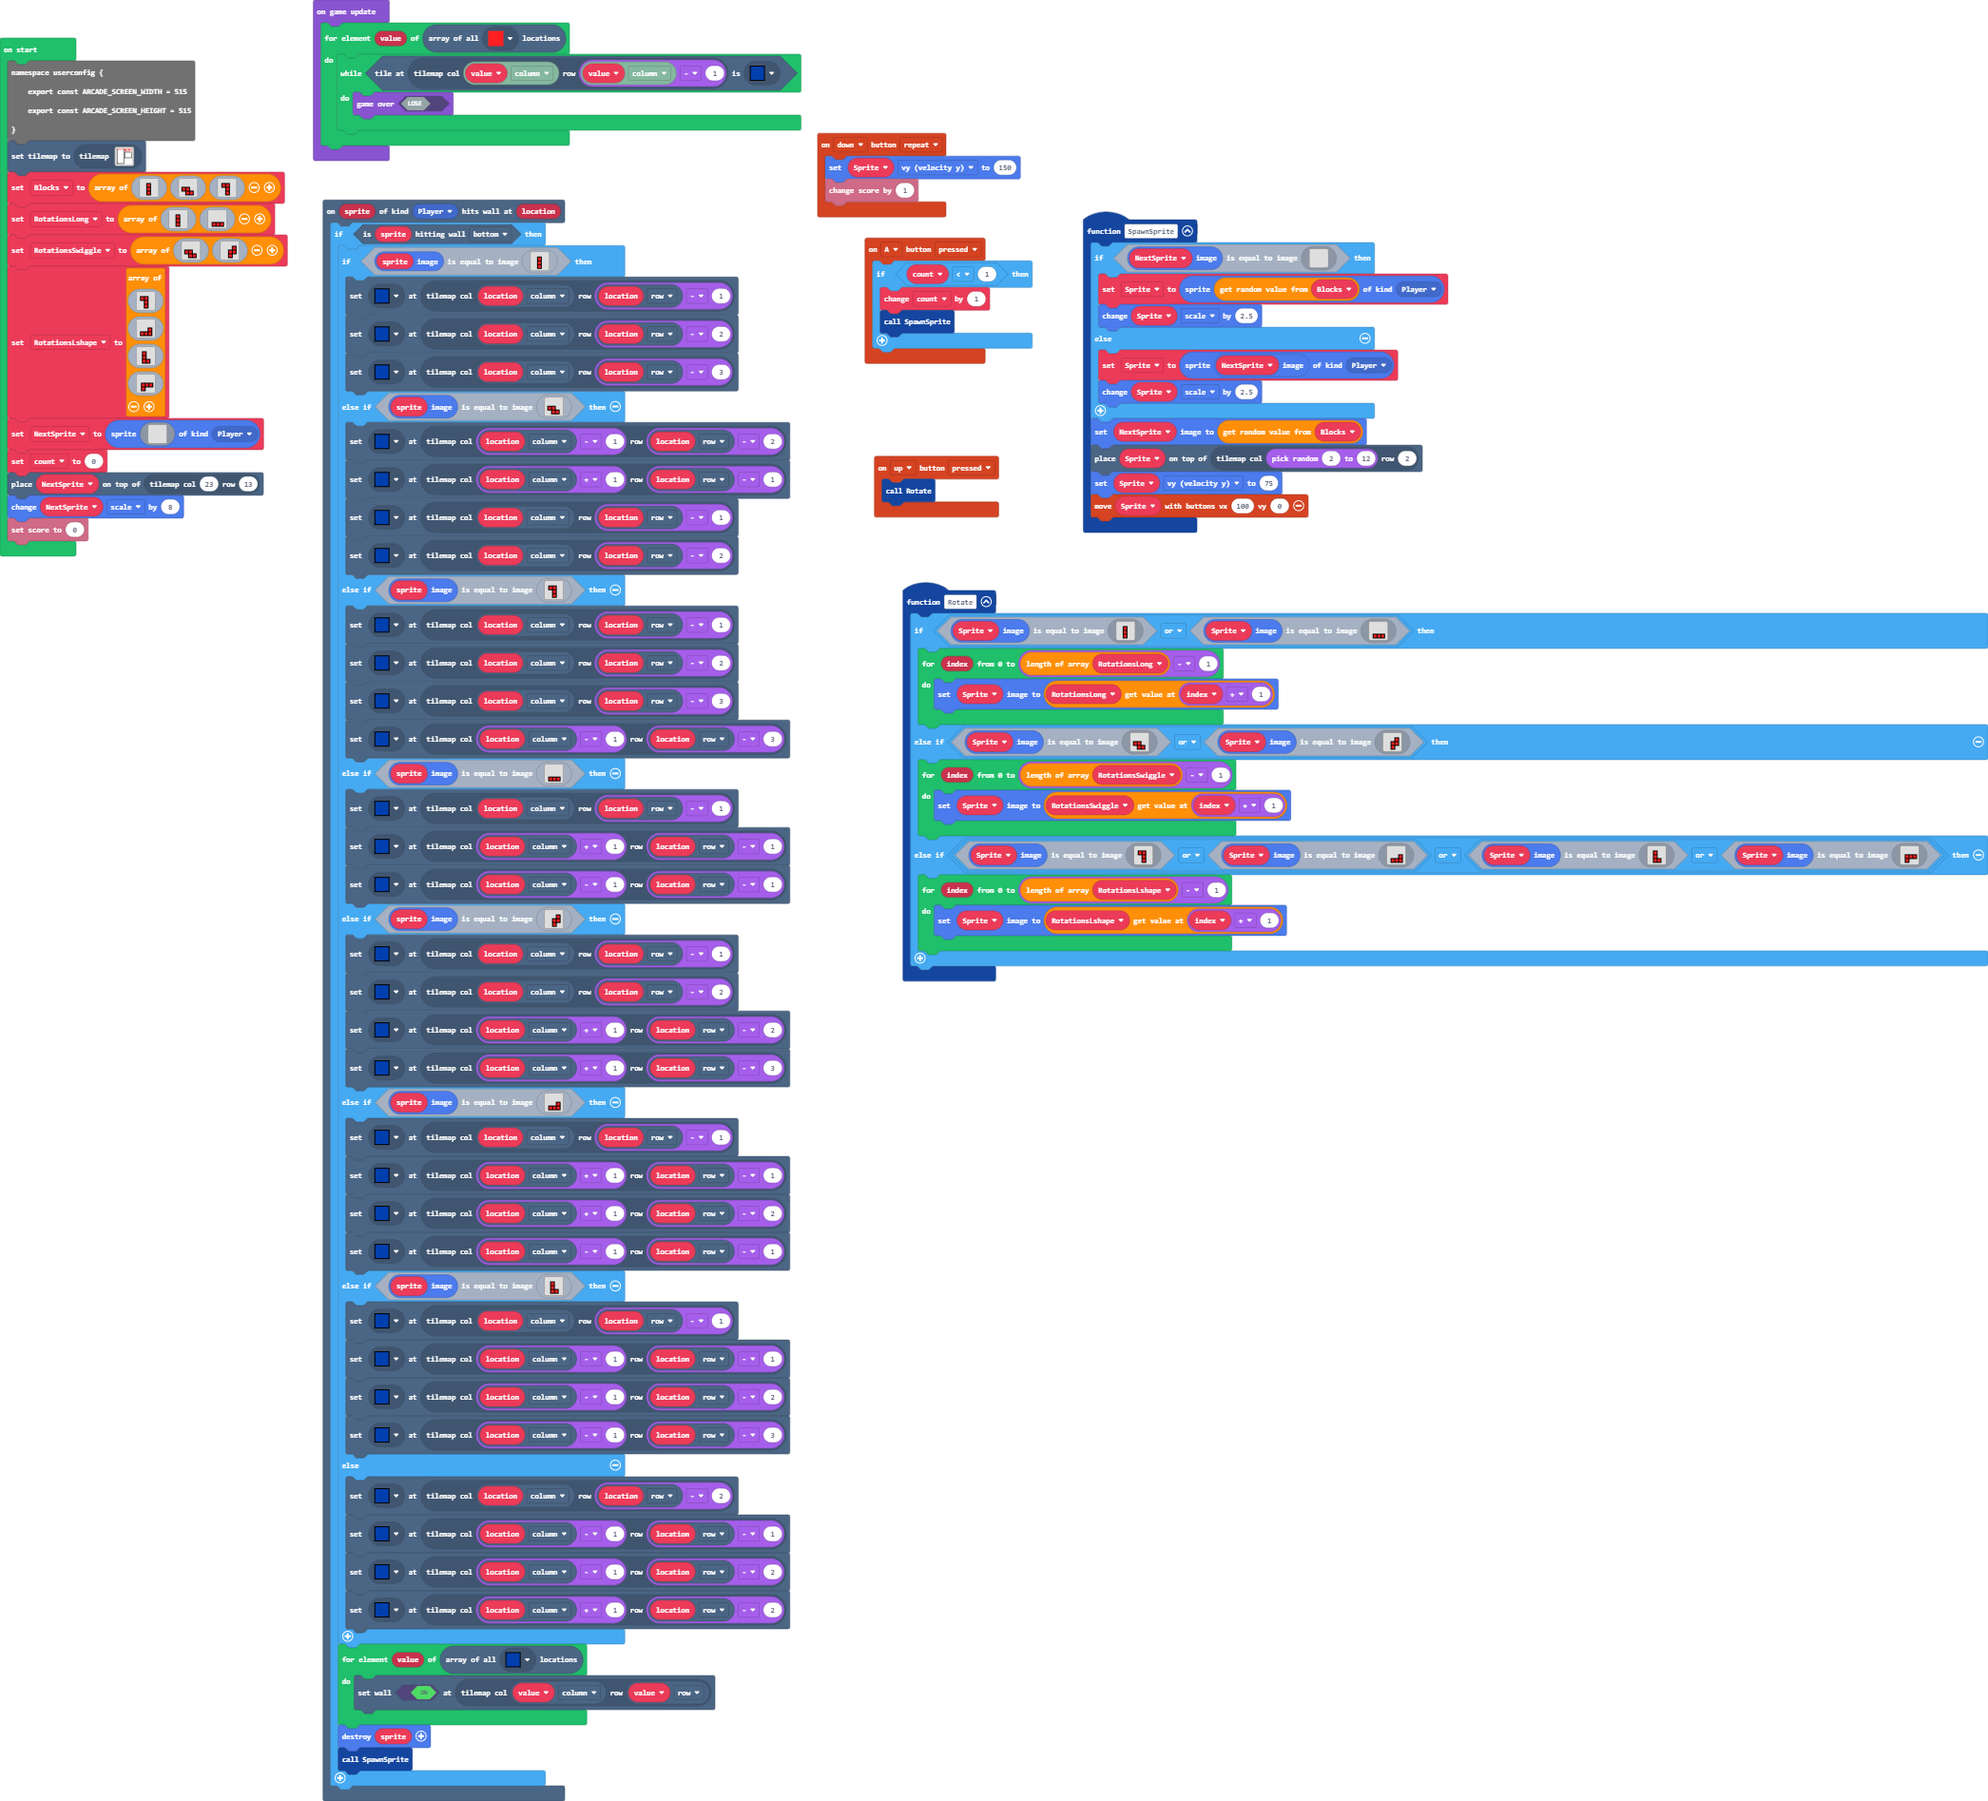
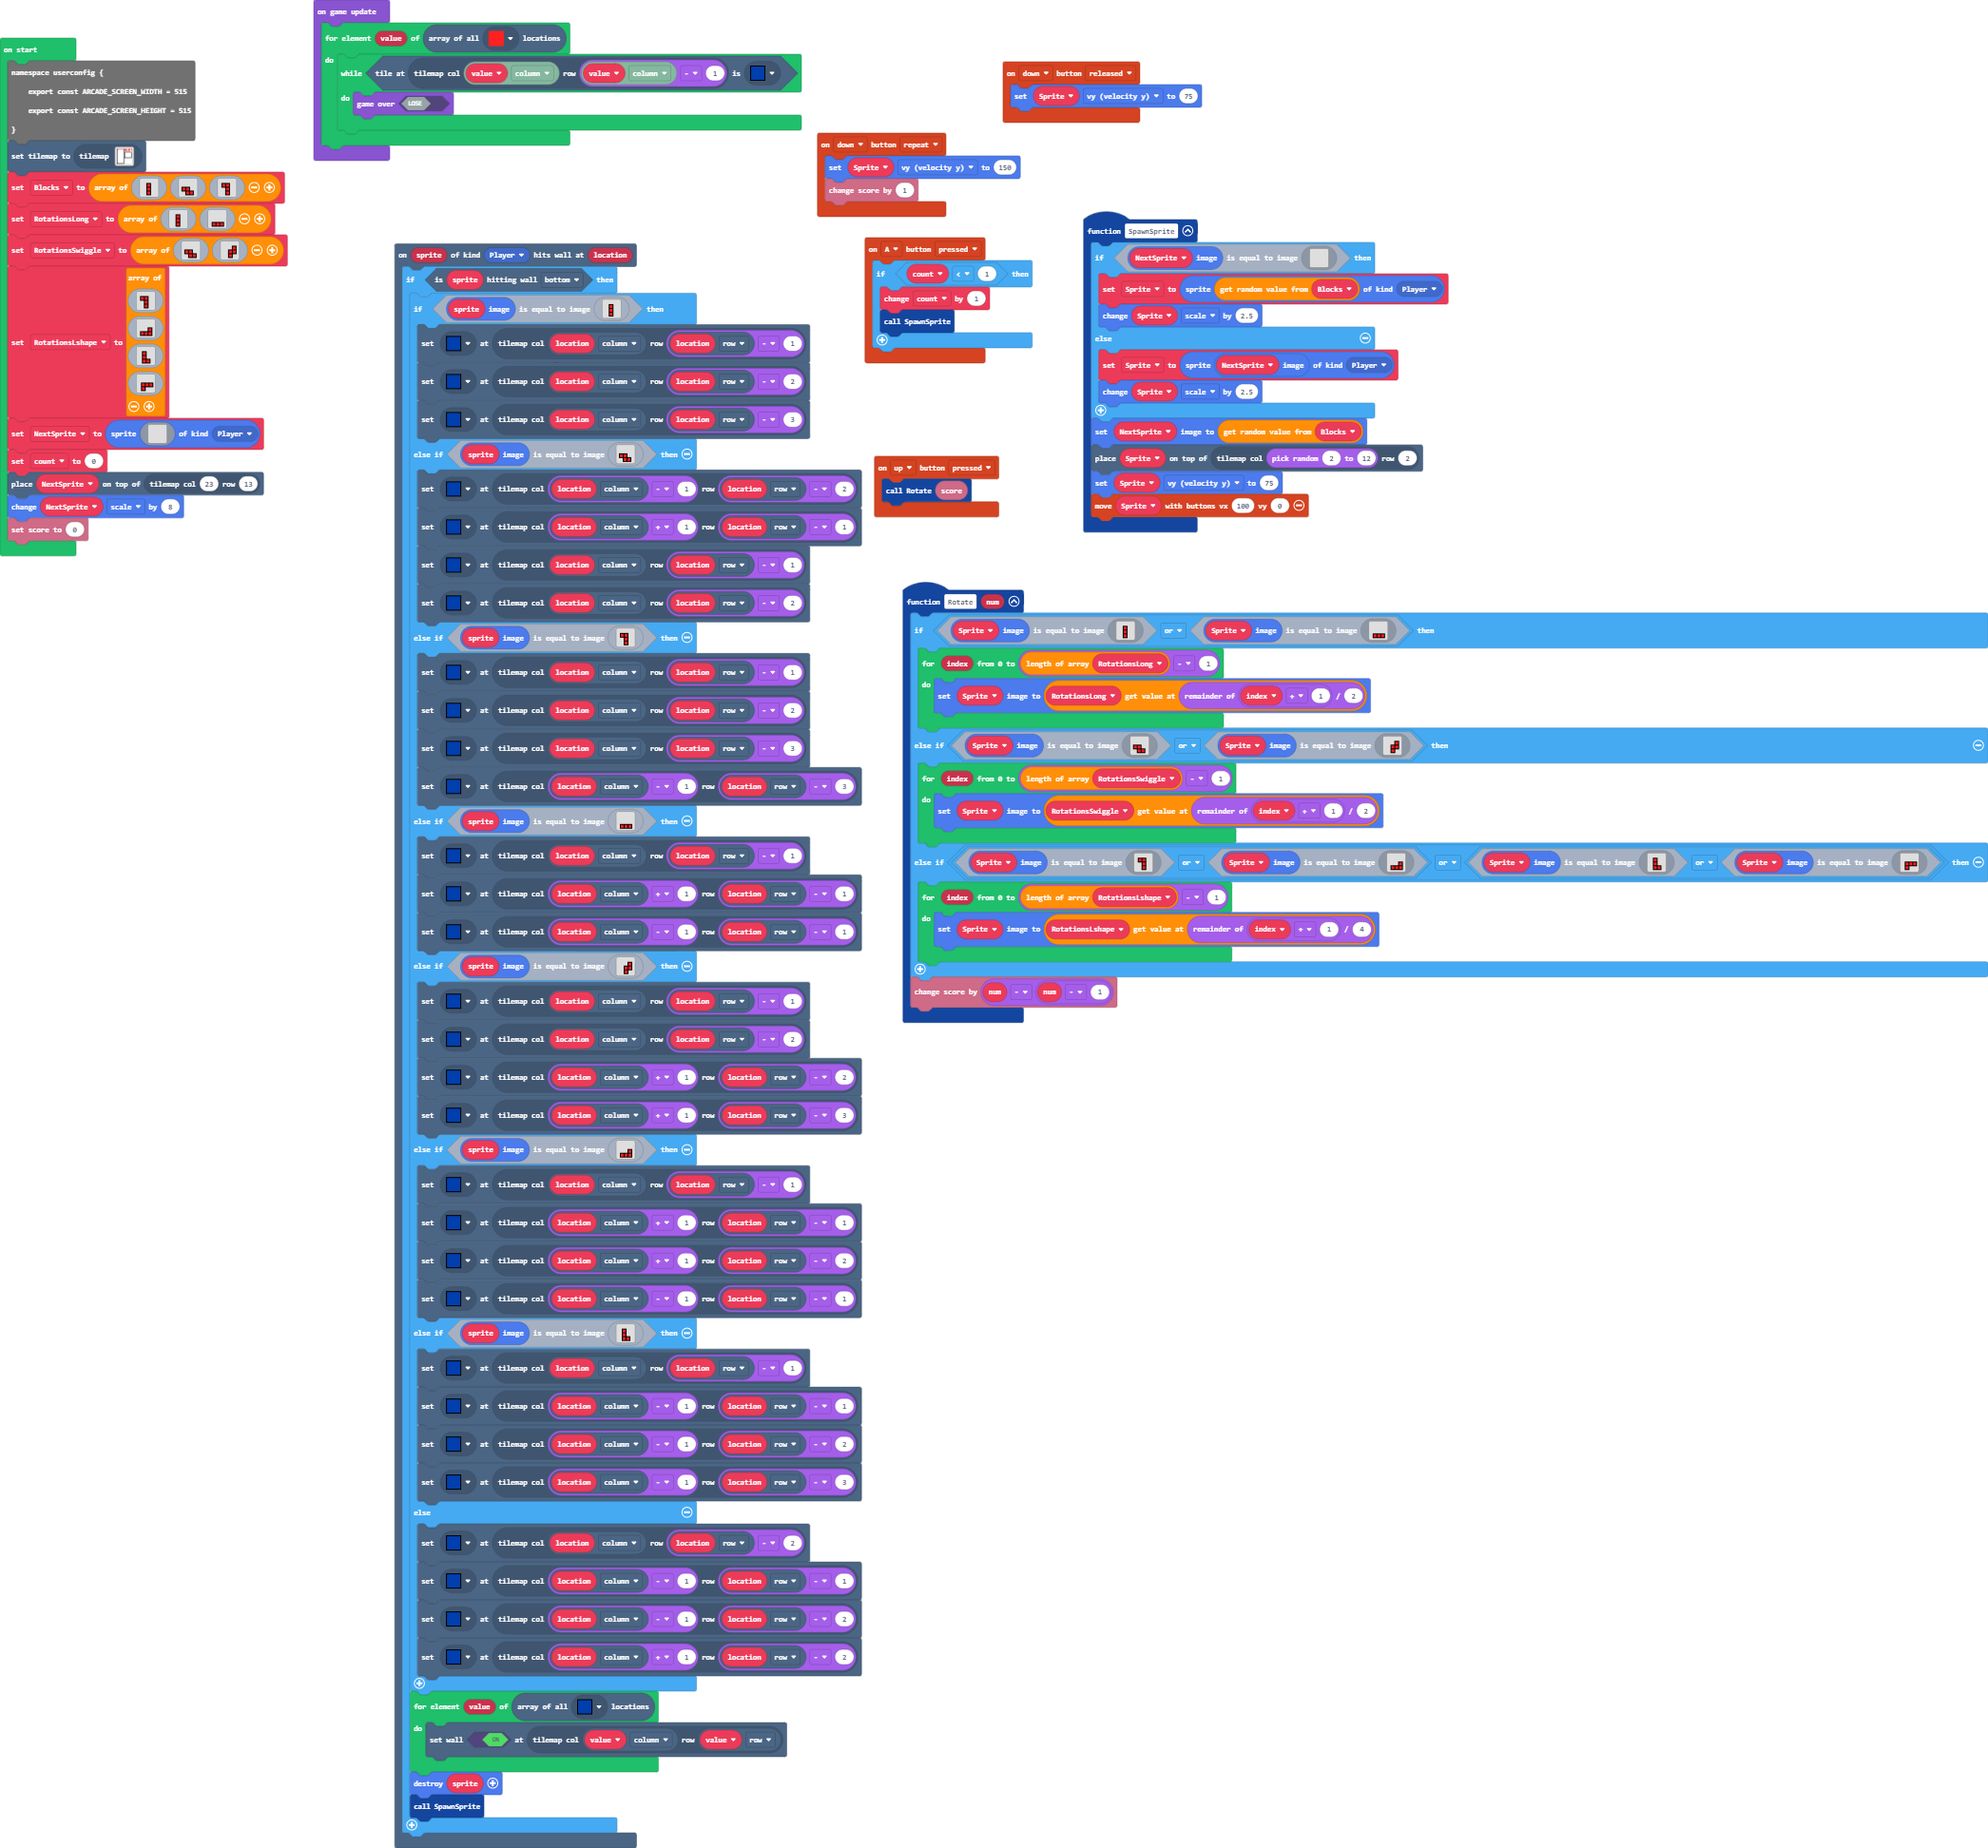
Update main.blocks, main.ts

Changed region(s): [[0.0, 0.0, 1.0, 1.0]]

diff --git a/main.ts b/main.ts
@@ -166,13 +166,16 @@ scene.onHitWall(SpriteKind.Player, function (sprite, location) {
     }
 })
 controller.up.onEvent(ControllerButtonEvent.Pressed, function () {
-    Rotate()
+    Rotate(info.score())
 })
 controller.A.onEvent(ControllerButtonEvent.Pressed, function () {
     if (count < 1) {
         count += 1
         SpawnSprite()
     }
+})
+controller.down.onEvent(ControllerButtonEvent.Released, function () {
+    Sprite2.vy = 75
 })
 function SpawnSprite () {
     if (NextSprite.image.equals(img`
@@ -208,7 +211,7 @@ controller.down.onEvent(ControllerButtonEvent.Repeated, function () {
     Sprite2.vy = 150
     info.changeScoreBy(1)
 })
-function Rotate () {
+function Rotate (num: number) {
     if (Sprite2.image.equals(img`
         . . . . . . . . . . . . . . . . 
         . . . . . . . . . . . . . . . . 
@@ -245,7 +248,7 @@ function Rotate () {
         . . f f f f f f f f f f f f f . 
         `)) {
         for (let index = 0; index <= RotationsLong.length - 1; index++) {
-            Sprite2.setImage(RotationsLong[index + 1])
+            Sprite2.setImage(RotationsLong[(index + 1) % 2])
         }
     } else if (Sprite2.image.equals(img`
         . . . . . . . . . . . . . . . . 
@@ -283,7 +286,7 @@ function Rotate () {
         . . . . . . f f f f f . . . . . 
         `)) {
         for (let index = 0; index <= RotationsSwiggle.length - 1; index++) {
-            Sprite2.setImage(RotationsSwiggle[index + 1])
+            Sprite2.setImage(RotationsSwiggle[(index + 1) % 2])
         }
     } else if (Sprite2.image.equals(img`
         . . . . . . . . . . . . . . . . 
@@ -355,9 +358,10 @@ function Rotate () {
         . . . f f f f f . . . . . . . . 
         `))) {
         for (let index = 0; index <= RotationsLshape.length - 1; index++) {
-            Sprite2.setImage(RotationsLshape[index + 1])
+            Sprite2.setImage(RotationsLshape[(index + 1) % 4])
         }
     }
+    info.changeScoreBy(num - (num - 1))
 }
 let Sprite2: Sprite = null
 let count = 0
